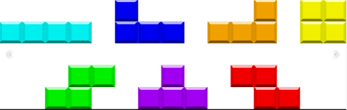
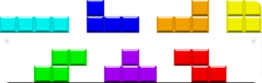
fix #13 : 색맹모드 UI 레이아웃 간격 조절 및 버튼 이미지 수정
- 레이아웃 간격 조절 및 이미지 수정

diff --git a/app/src/main/java/Tetris/View/setting/ColorBlindnessView.java b/app/src/main/java/Tetris/View/setting/ColorBlindnessView.java
@@ -1,9 +1,11 @@
 package Tetris.View.setting;
 
 import Tetris.Model.setting.ColorBlindnessModel;
+import Tetris.Util.ColorBlindnessType;
 
 import javax.swing.*;
 import java.awt.*;
+import java.awt.event.ActionListener;
 import java.util.Observable;
 import java.util.Observer;
 
@@ -14,10 +16,8 @@ public class ColorBlindnessView extends JFrame implements Observer{
     private final JButton colorGreenBtn = new JButton(model.getFocusColorGreenBtnImage());
     private final JButton colorBlueBtn = new JButton(model.getFocusColorBlueBtnImage());
     private final JButton backBtn = new JButton(model.getFocusDefaultBackBtnImage());
-    private JLabel previewDefault;
-    private JLabel previewRed;
-    private JLabel previewGreen;
-    private JLabel previewBlue;
+
+    private JLabel blockPreviewImage = new JLabel(model.getPreviewDefaultImage());
 
     public ColorBlindnessView(int x, int y){
         super("SeoulTech SE Tetris");
@@ -34,10 +34,15 @@ public class ColorBlindnessView extends JFrame implements Observer{
                 super.paintComponent(g);
             }
         };
+        background.setLayout(new GridBagLayout());
+        GridBagConstraints gbc = new GridBagConstraints();
+        gbc.gridwidth = GridBagConstraints.REMAINDER;
+        gbc.fill = GridBagConstraints.HORIZONTAL;
+        gbc.insets = new Insets(10, 0, 0, 0);
         setContentPane(background);
 
         JPanel buttons = new JPanel();
-        buttons.setLayout(new GridLayout(6, 1));
+        buttons.setLayout(new GridLayout(4, 1));
 
         colorDefaultBtn.setBorderPainted(false);
         colorDefaultBtn.setContentAreaFilled(false);
@@ -62,28 +67,17 @@ public class ColorBlindnessView extends JFrame implements Observer{
         colorBlueBtn.setFocusPainted(false);
         colorBlueBtn.setOpaque(false);
         buttons.add(colorBlueBtn);
-        
+
+        buttons.setOpaque(false);
+        add(buttons, gbc);
+
         //블록색상 미리보기
-        previewDefault = new JLabel(model.getPreviewDefaultImage());
-        previewDefault.setPreferredSize(new Dimension(260, 120));
-        buttons.add(previewDefault);
+        add(blockPreviewImage,gbc);
 
         backBtn.setBorderPainted(false);
         backBtn.setContentAreaFilled(false);
         backBtn.setFocusPainted(false);
-        buttons.add(backBtn);
-
-        buttons.setOpaque(false);
-
-        GridBagConstraints gbc = new GridBagConstraints();
-        GridBagLayout gbl = new GridBagLayout();
-        background.setLayout(gbl);
-
-        gbc.gridx = 0;
-        gbc.gridy = 0;
-        gbc.gridheight = 1;
-        gbc.fill = GridBagConstraints.BOTH;
-        add(buttons, gbc);
+        add(backBtn, gbc);
 
         setDefaultCloseOperation(JFrame.EXIT_ON_CLOSE);
         setFocusable(true);
@@ -91,7 +85,13 @@ public class ColorBlindnessView extends JFrame implements Observer{
         pack();
         setVisible(true);
     }
-
+    public void setActionListener(ActionListener listener){
+        colorDefaultBtn.addActionListener(listener);
+        colorBlueBtn.addActionListener(listener);
+        colorGreenBtn.addActionListener(listener);
+        colorRedBtn.addActionListener(listener);
+        backBtn.addActionListener(listener);
+    }
     @Override
     public void paint(Graphics g) {
         int indicator = model.getIndicator();
@@ -119,6 +119,17 @@ public class ColorBlindnessView extends JFrame implements Observer{
             backBtn.setIcon(model.getFocusDefaultBackBtnImage());
         } else {
             backBtn.setIcon(model.getDefaultBackBtnImage());
+        }
+
+        String colorMode = model.getColorMode();
+        if(colorMode.equals(ColorBlindnessType.NORMAL.getKey())) {
+            blockPreviewImage.setIcon(model.getPreviewDefaultImage());
+        } else if(colorMode.equals(ColorBlindnessType.PROTAN.getKey())){
+            blockPreviewImage.setIcon(model.getPreviewRedImage());
+        } else if(colorMode.equals(ColorBlindnessType.DEUTAN.getKey())) {
+            blockPreviewImage.setIcon(model.getPreviewGreenImage());
+        } else if(colorMode.equals(ColorBlindnessType.TRITAN.getKey())) {
+            blockPreviewImage.setIcon(model.getPreviewBlueImage());
         }
         pack();
         super.paint(g);

diff --git a/app/src/main/java/Tetris/Controller/setting/ColorBlindnessViewController.java b/app/src/main/java/Tetris/Controller/setting/ColorBlindnessViewController.java
@@ -3,23 +3,25 @@ package Tetris.Controller.setting;
 import Tetris.Model.setting.SettingModel;
 import Tetris.Model.setting.ColorBlindnessModel;
 
+import Tetris.Util.ColorBlindnessType;
 import Tetris.Util.JsonWriter;
 
 import Tetris.View.setting.SettingView;
 import Tetris.View.setting.ColorBlindnessView;
 
+import java.awt.event.ActionEvent;
+import java.awt.event.ActionListener;
 import java.awt.event.KeyEvent;
 import java.awt.event.KeyListener;
 
-public class ColorBlindnessViewController implements KeyListener {
-    enum ColorBlindnessType { NORMAL, PROTAN, DEUTAN, TRITAN } // 정상, 적색맹, 녹색맹, 청색맹
-
+public class ColorBlindnessViewController implements KeyListener, ActionListener {
     private final ColorBlindnessModel model;
     private final ColorBlindnessView colorBlindnessView;
 
     public ColorBlindnessViewController(ColorBlindnessModel model, ColorBlindnessView view) {
         this.model = model;
         this.colorBlindnessView = view;
+        this.colorBlindnessView.setActionListener(this);
     }
     
     public void navigatePreviousView(){
@@ -32,30 +34,15 @@ public class ColorBlindnessViewController implements KeyListener {
     }
 
     // 각 버튼 클릭되면 블록 색상바꾸기
-    public void changeColor(){
-        
+    public void changeColor(ColorBlindnessType type){
+        JsonWriter.setColorMode(type.getKey());
+        ColorBlindnessModel field = new ColorBlindnessModel();
+        ColorBlindnessView view = new ColorBlindnessView(colorBlindnessView.getLocation().x, colorBlindnessView.getLocation().y);
+        ColorBlindnessViewController controller = new ColorBlindnessViewController(field, view);
+        view.addKeyListener(controller);
+        field.addObserver(view);
+        colorBlindnessView.dispose();
     }
-
-    // 각 모드에 따라 미리보기이미지 바꾸기
-    public void changePreview(ColorBlindnessType type){
-        switch(type){
-            case NORMAL:
-                //
-                break;
-            case PROTAN: 
-                //
-                break;
-            case DEUTAN:
-                //
-                break;
-            case TRITAN:
-                //
-                break;
-        }
-
-    }
-    
-
     public void keyTyped(KeyEvent e) {
         // default implementation ignored
     }
@@ -76,16 +63,16 @@ public class ColorBlindnessViewController implements KeyListener {
             case KeyEvent.VK_ENTER:
                 switch (indicator){
                     case 0:
-                        changePreview(ColorBlindnessType.NORMAL);
+                        changeColor(ColorBlindnessType.NORMAL);
                         break;
                     case 1:
-                        changePreview(ColorBlindnessType.PROTAN);
+                        changeColor(ColorBlindnessType.PROTAN);
                         break;
                     case 2:
-                        changePreview(ColorBlindnessType.DEUTAN);
+                        changeColor(ColorBlindnessType.DEUTAN);
                         break;
                     case 3:
-                        changePreview(ColorBlindnessType.TRITAN);
+                        changeColor(ColorBlindnessType.TRITAN);
                         break;   
                     case 4:
                         navigatePreviousView();
@@ -101,5 +88,20 @@ public class ColorBlindnessViewController implements KeyListener {
     @Override
     public void keyReleased(KeyEvent e) {
         // default implementation ignored
+    }
+    @Override
+    public void actionPerformed(ActionEvent e) {
+        String target = e.getSource().toString();
+        if(target.contains("button_colorblindness_default")) {
+            changeColor(ColorBlindnessType.NORMAL);
+        } else if(target.contains("button_colorblindness_blue")) {
+            changeColor(ColorBlindnessType.TRITAN);
+        } else if(target.contains("button_colorblindness_green")) {
+            changeColor(ColorBlindnessType.DEUTAN);
+        } else if(target.contains("button_colorblindness_red")) {
+            changeColor(ColorBlindnessType.PROTAN);
+        } else if(target.contains("button_back")) {
+            navigatePreviousView();
+        }
     }
 }

diff --git a/app/src/main/java/Tetris/Model/setting/ColorBlindnessModel.java b/app/src/main/java/Tetris/Model/setting/ColorBlindnessModel.java
@@ -12,6 +12,7 @@ public class ColorBlindnessModel extends Observable {
     private final int buttonHeight = 60;
     private final int screenWidth = JsonReader.getWidth();
     private final int screenHeight = JsonReader.getHeight();
+    private String colorMode = JsonReader.getColorMode();
 
     private final ImageIcon backgroundImage350700 = new ImageIcon("app/src/main/resources/image/default_background_350_700.png");
     private final ImageIcon backgroundImage400800 = new ImageIcon("app/src/main/resources/image/default_background_400_800.png");
@@ -43,6 +44,12 @@ public class ColorBlindnessModel extends Observable {
         notifyObservers();
     }
 
+    public void setColorMode(String colorMode) {
+        this.colorMode = colorMode;
+        setChanged();
+        notifyObservers();
+    }
+
     public int getScreenWidth() {
         return screenWidth;
     }
@@ -56,6 +63,9 @@ public class ColorBlindnessModel extends Observable {
         return buttonHeight;
     }
     public int getIndicator() { return indicator; }
+    public String getColorMode() {
+        return colorMode;
+    }
 
     public ImageIcon getBackgroundImage() {
         int width = JsonReader.getWidth();

diff --git a/app/src/main/java/Tetris/Controller/setting/SettingViewController.java b/app/src/main/java/Tetris/Controller/setting/SettingViewController.java
@@ -53,7 +53,6 @@ public class SettingViewController implements KeyListener, ActionListener {
         settingView.dispose();
     }
     public void navigationColorSettingView(){
-        // navigation code
         ColorBlindnessModel field = new ColorBlindnessModel();
         ColorBlindnessView view = new ColorBlindnessView(settingView. getLocation().x, settingView.getLocation().y);
         ColorBlindnessViewController controller = new ColorBlindnessViewController(field, view);

diff --git a/app/src/main/java/Tetris/Util/ColorBlindnessType.java b/app/src/main/java/Tetris/Util/ColorBlindnessType.java
@@ -1,0 +1,14 @@
+package Tetris.Util;
+
+public enum ColorBlindnessType {
+    NORMAL("normal"), PROTAN("protan"), DEUTAN("deutan"), TRITAN("tritan");  // 정상, 적색맹, 녹색맹, 청색맹
+    private String key;
+
+    ColorBlindnessType(String key) {
+        this.key = key;
+    }
+
+    public String getKey() {
+        return key;
+    }
+}

diff --git a/app/src/main/java/Tetris/Controller/setting/KeySettingViewController.java b/app/src/main/java/Tetris/Controller/setting/KeySettingViewController.java
@@ -88,5 +88,4 @@ public class KeySettingViewController implements KeyListener, ActionListener {
             changeKey();
         }
     }
-
 }
